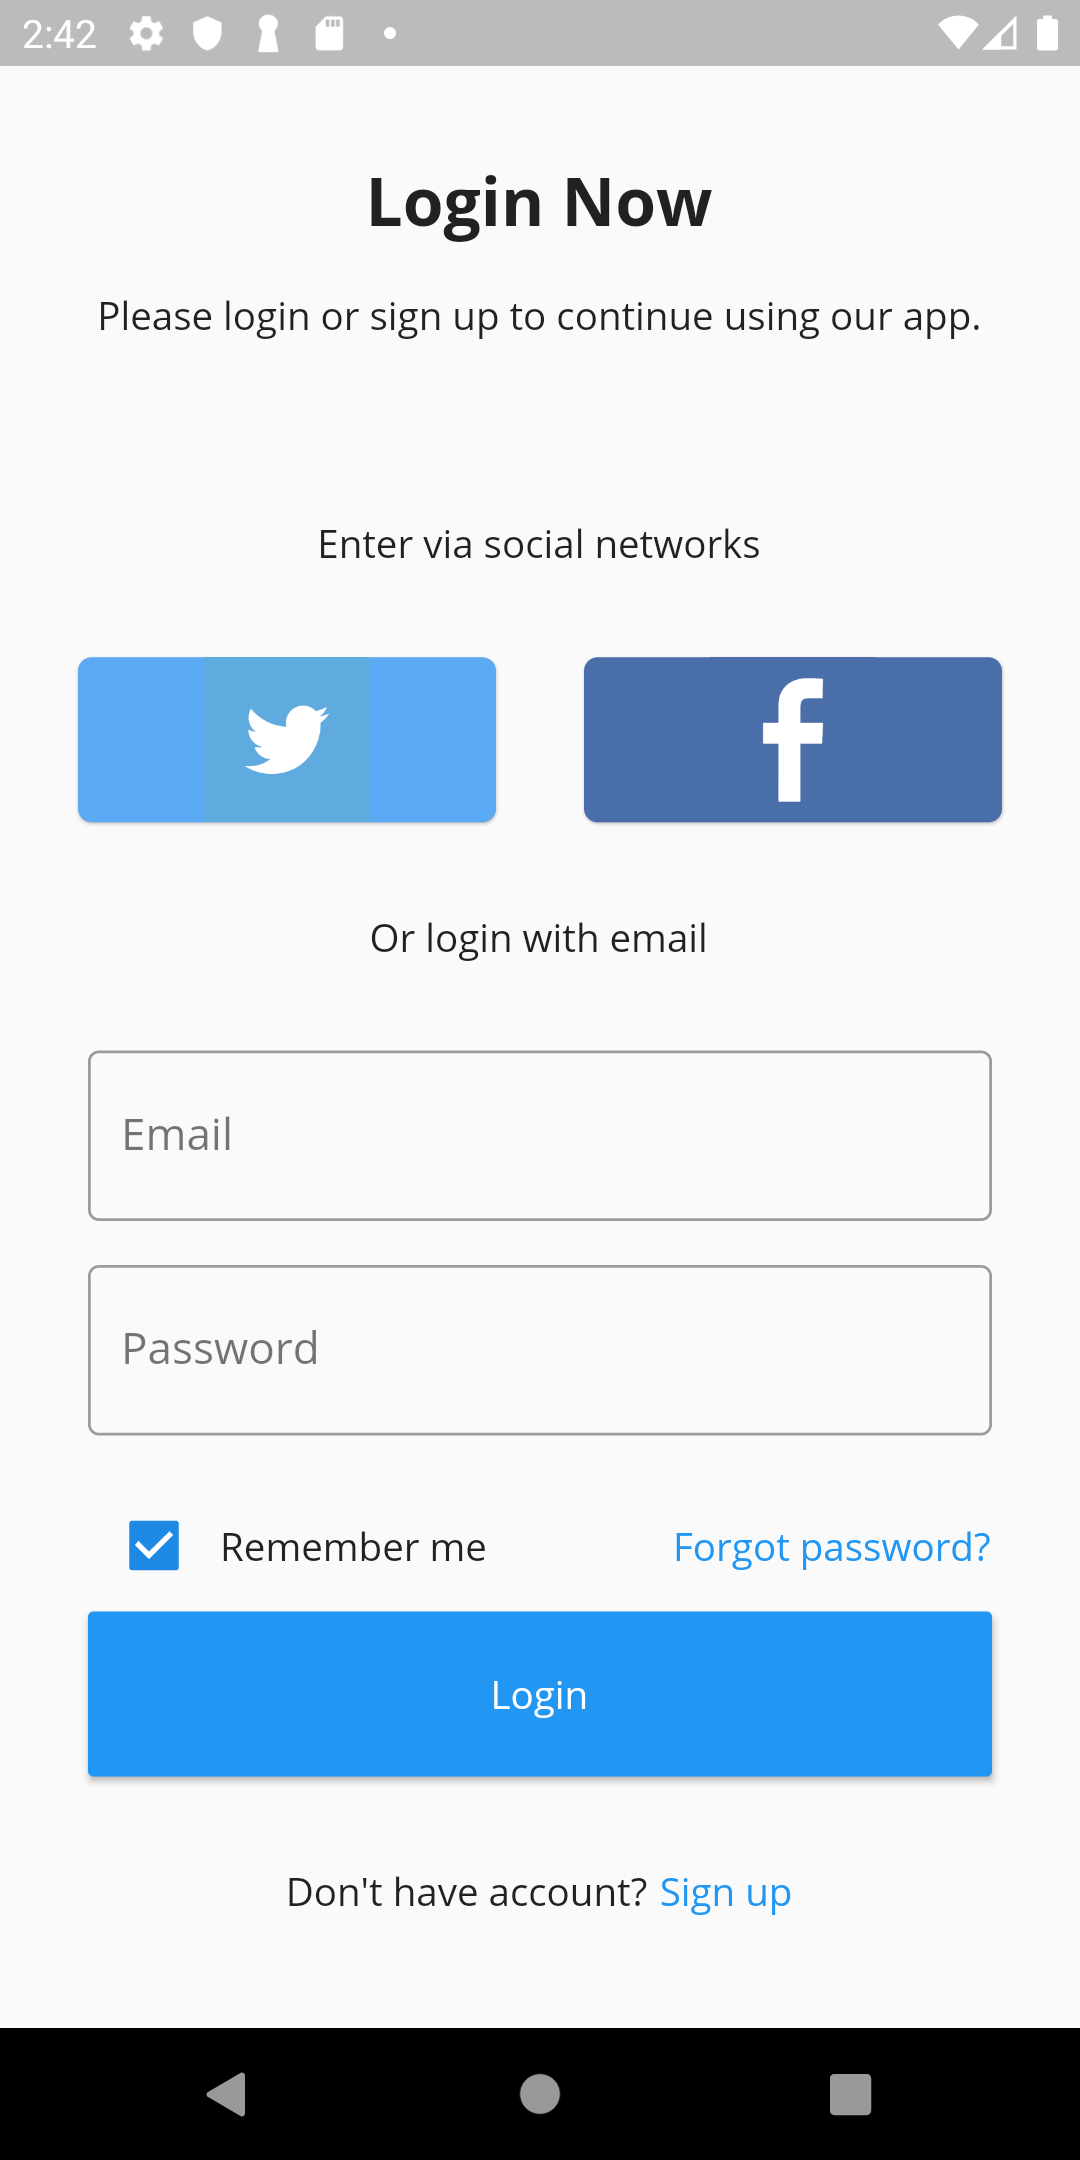
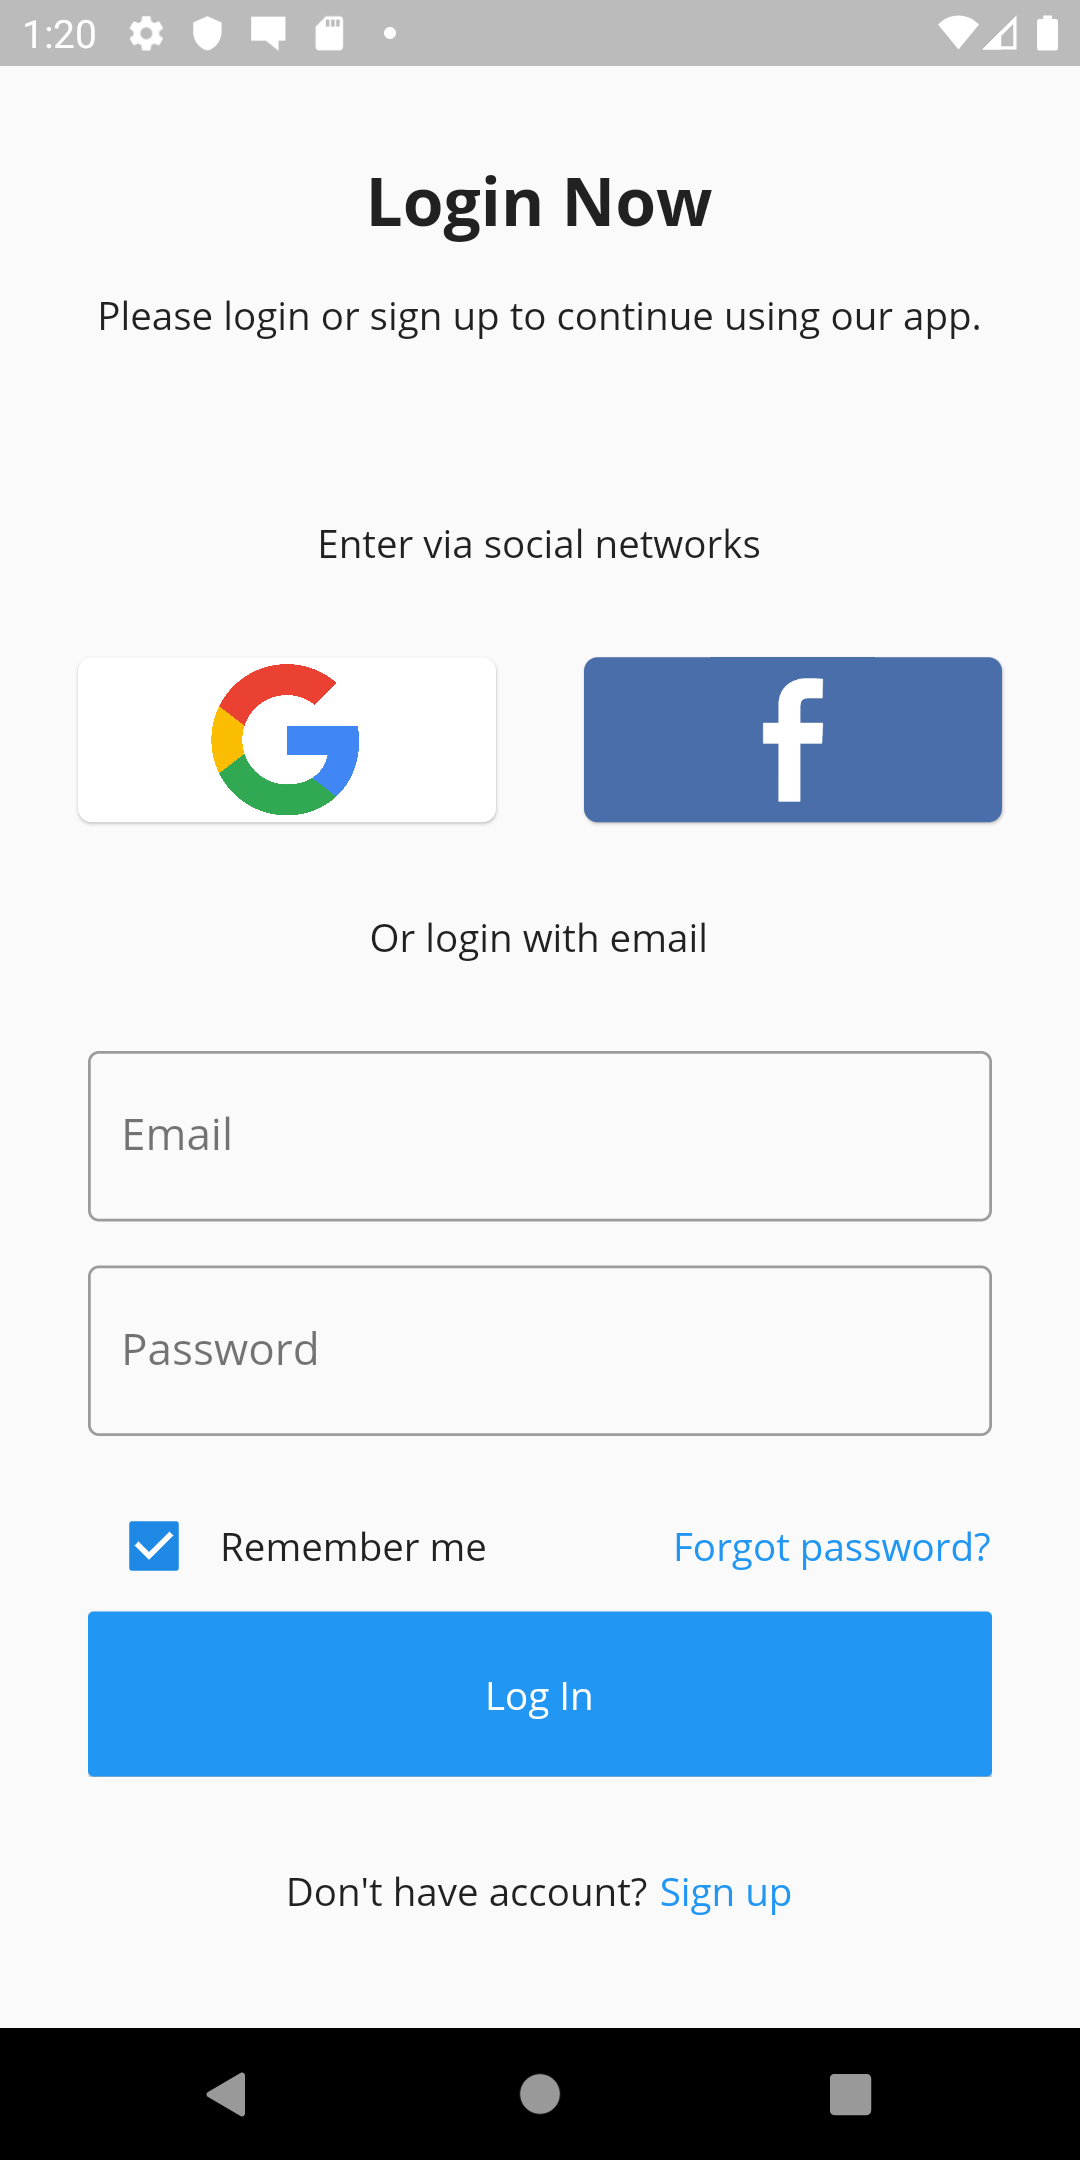
updated screenshot and button navigation

diff --git a/lib/widgets/social_network_button_row.dart b/lib/widgets/social_network_button_row.dart
@@ -22,7 +22,7 @@ class SocialNetworkButtonRow extends StatelessWidget {
             FirebaseUser firebaseUser = await auth.loginGoogle(context);
 
             if (firebaseUser != null) {
-              Navigator.push(
+              Navigator.pushReplacement(
                 context,
                 MaterialPageRoute(
                   builder: (context) => HomePage(),
@@ -41,7 +41,7 @@ class SocialNetworkButtonRow extends StatelessWidget {
             FirebaseUser firebaseUser = await auth.loginFacebook(context);
 
             if (firebaseUser != null) {
-              Navigator.push(
+              Navigator.pushReplacement(
                 context,
                 MaterialPageRoute(
                   builder: (context) => HomePage(),

diff --git a/lib/main.dart b/lib/main.dart
@@ -14,7 +14,7 @@ class MyApp extends StatelessWidget {
     return MaterialApp(
       debugShowCheckedModeBanner: false,
       title: 'Flutter Demo',
-      theme: ThemeData(primarySwatch: Colors.blue, fontFamily: 'OpenSans'),
+      theme: ThemeData(primaryColor: Colors.blue, fontFamily: 'OpenSans'),
       home: LoadingPage(),
     );
   }
